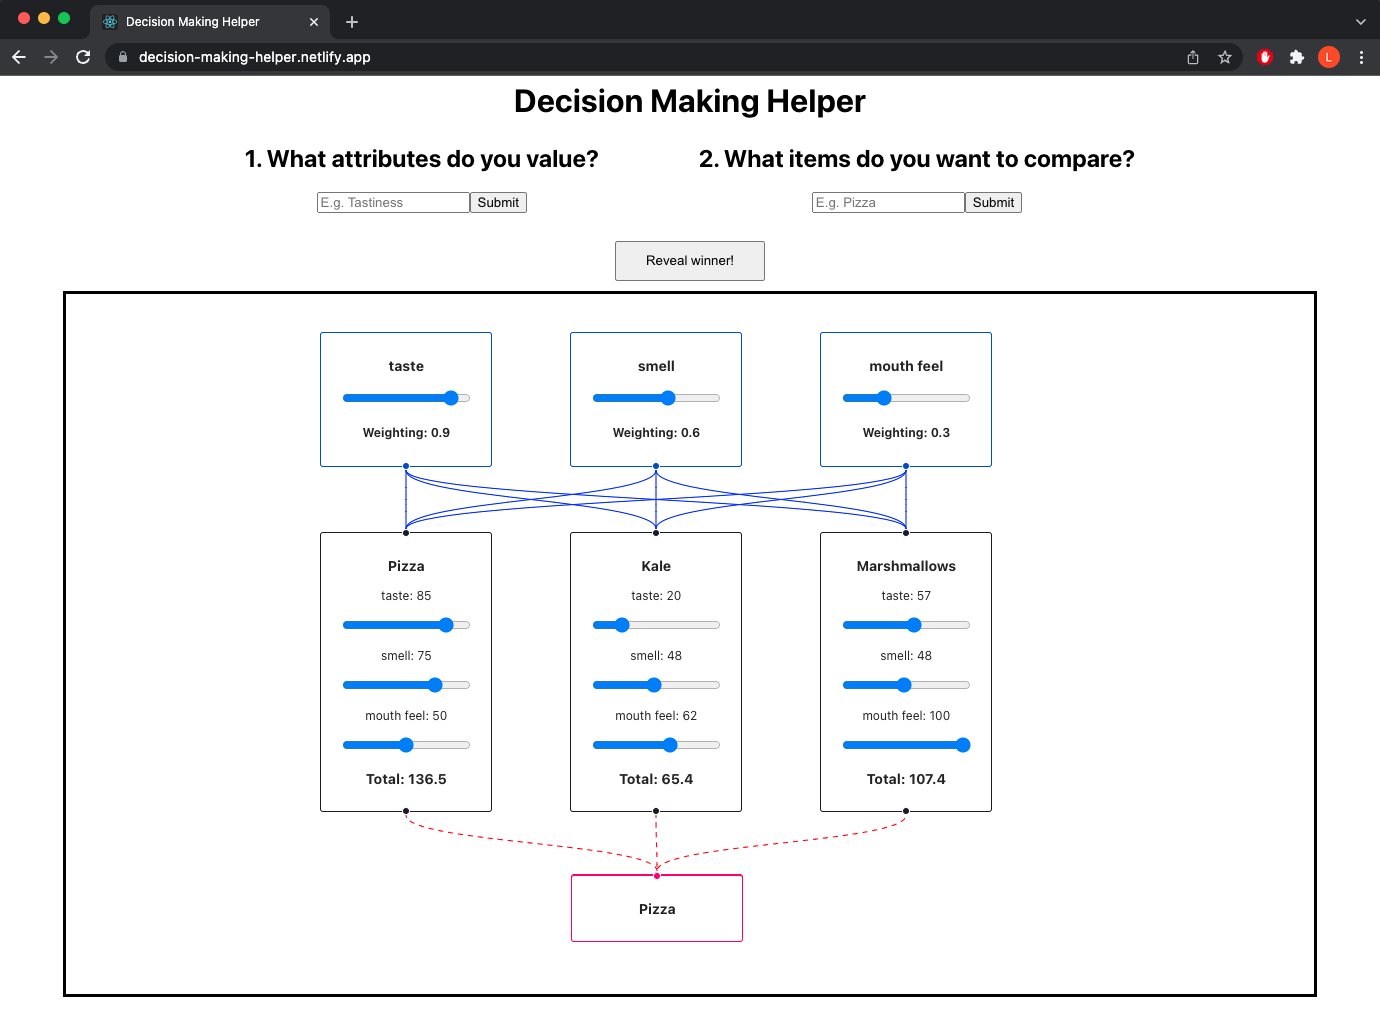
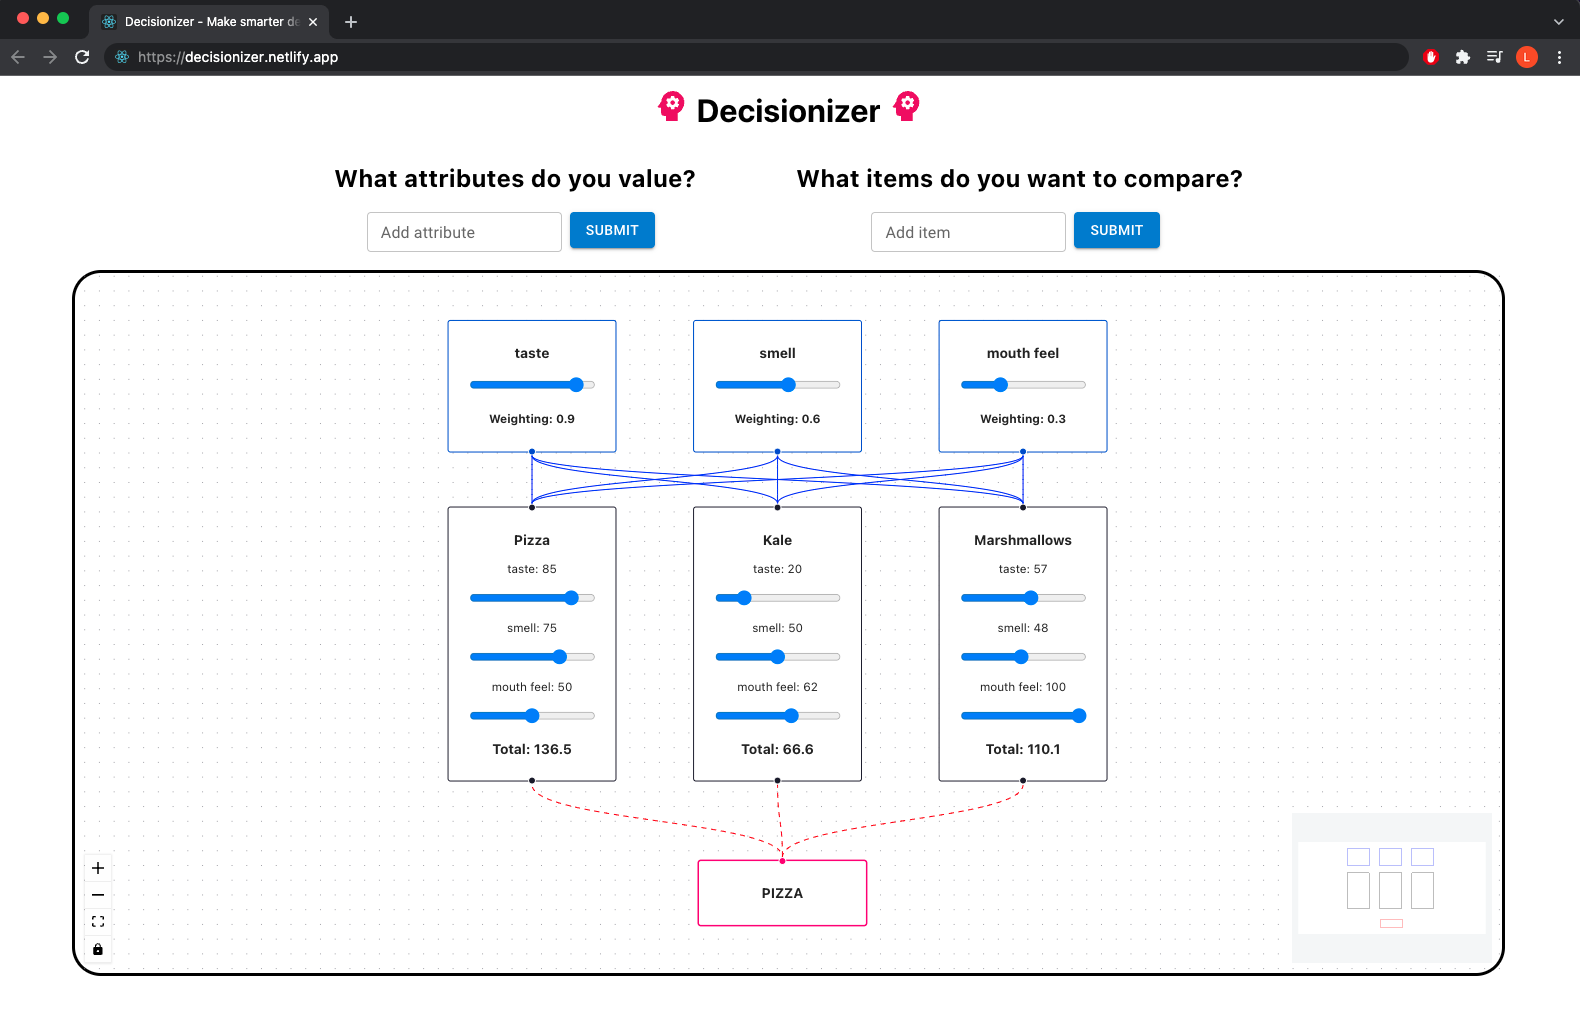
Updated ReadMe and coloured nodes in MiniMap component

diff --git a/src/components/MainContent.tsx b/src/components/MainContent.tsx
@@ -220,6 +220,12 @@ function MainContent() {
   }
 
   const flowStyles = { height: 700 };
+  const nodeStrokeColor = (node: any) => {
+    if (node.type === "input") return "blue";
+    if (node.type === "default") return "black";
+    if (node.type === "output") return "red";
+    return "gray";
+  };
 
   return (
     <>
@@ -288,7 +294,10 @@ function MainContent() {
                 nodesDraggable={false}
                 snapToGrid={true}
               >
-                <MiniMap />
+                <MiniMap
+                  nodeStrokeColor={nodeStrokeColor}
+                  nodeBorderRadius={5}
+                />
                 <Background />
                 <Controls />
               </ReactFlow>

diff --git a/src/App.css b/src/App.css
@@ -20,6 +20,7 @@ h1 {
   margin: auto;
   border: solid black 3px;
   border-radius: 3vmin;
+  margin-bottom: 1vh;
 }
 
 .attributes,

diff --git a/README.md b/README.md
@@ -1,16 +1,16 @@
-# Decision Making Helper
+# Decisionizer
 
-This is the GitHub repo for an app that helps you make decisions.
+This is the GitHub repo for Decisionizer, an app to help you make decisions.
+
+[View the deployed site here](https://decisionizer.netlify.app/)
 
 ![Screenshot](screenshot.png)
 
-## Links
+## Other Links
 
 #### [UI Overview](https://whimsical.com/ui-decision-making-helper-CgGRuSAAHJFHFLqvoUZ5rp)
 
 #### [Technical architecture](https://whimsical.com/states-objects-decision-making-helper-58dy1nJusBt9NprdBjNeeR)
-
-#### [Deployed site](https://decisionizer.netlify.app/)
 
 ## App instructions
 
@@ -47,8 +47,6 @@ I decided to first create some dummy data, and then use it to fill out a (hard-c
 
 Here's a few issues I'm aware of but didn't want to go too over time to fix:
 
-- The slider inputs can not be changed via clicking and dragging the cursor (but can be clicked around / use arrow keys). It's currently inside an already draggable react flow node which is causing this issue. Potential fix idea would be to make the react flow nodes undraggable when this input is being clicked/focused on.
-- The winning node created by the 'Reveal winner!' button does not replace the original node, instead it just creates a new one in exactly the same position. A fix would be to have the clicking of the reveal button delete the original node from the elements list (and also match up the new edges accordingly)
 - Locally, but not on my deployed site, I am getting this warning to the console `Cannot update a component (MainContent) while rendering a different component (AttributeNode). To locate the bad setState() call inside AttributeNode, follow the stack trace as described in https://reactjs.org/link/setstate-in-render` - not sure on this one!
 
 ## Further implementations
@@ -56,4 +54,4 @@ Here's a few issues I'm aware of but didn't want to go too over time to fix:
 If I had more time, other than fixing the above, I would like to prioritise the following:
 
 - The node positions aren't properly responsive - the app currently looks best with around 3 attributes and 3 items
-- The item scores should be revealed in a similar way to the winning node. I don’t want to introduce bias (e.g. ‘Oh I actually prefer this, I’ll just adjust this attribute until it becomes the favourite)
+- The item scores should be revealed only after the user has completely finished setting the attributes. I don’t want to introduce bias (e.g. ‘Oh I actually prefer this, I’ll just adjust this attribute until it becomes the winner).
